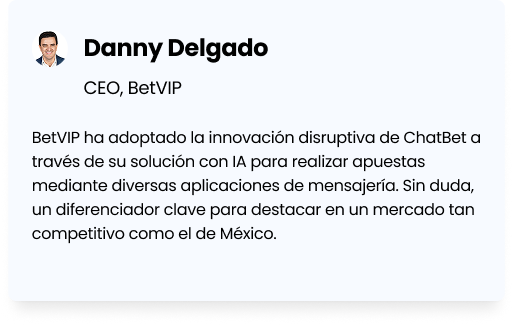
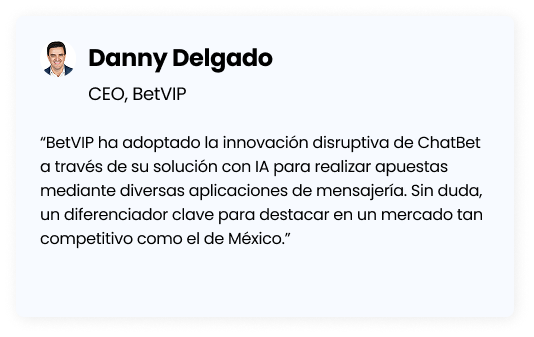
Modificaciones Finales

Changed region(s): [[0.0624, 0.4, 0.9357, 0.7385], [0.0624, 0.0923, 0.5302, 0.2462], [0.1559, 0.2462, 0.3743, 0.3077]]

diff --git a/src/app/Chat-Bet/pages/main-page/main-page.component.scss b/src/app/Chat-Bet/pages/main-page/main-page.component.scss
@@ -98,7 +98,7 @@ align-items: center;
             /* width: 100%; */
             display: flex;
             flex-direction: column;
-            /* align-items: center; */
+            align-items: center;
             margin-left: 50%; 
             transform: translateX(-10%); 
             @media (max-width: 900px) {
@@ -114,23 +114,7 @@ align-items: center;
                margin-bottom: 4rem;
             }
         }
-        .aaa{
-            font-family: "Poppins-Bold", sans-serif;
-            text-align: center;
-            display: inline-flex;
-            justify-content: start;
-            border: solid 1px;
-            border-color: #9595ff;
-            border-radius: 50px;
-            padding: 0.5rem 3rem;
-            color: #5554F3;
-            margin: 0 auto; 
-            @media (min-width: 901px) {
-                margin: 0;
-                width: 12%;
-                
-            }
-        }
+
           }
         }
     }

diff --git a/src/app/Chat-Bet/pages/main-page/main-page.component.html b/src/app/Chat-Bet/pages/main-page/main-page.component.html
@@ -649,7 +649,7 @@
  -->  
  <div class="informationcarrusel">
   <div class="content-wrapper">
-    <span class="aaa" >{{ 'carousel.title' | translate }}</span>
+    <span class="TitleTag" >{{ 'carousel.title' | translate }}</span>
      <h1>{{ 'carousel.description' | translate }}</h1>
   </div>
    <app-carousel-slider *ngIf="showCarousel" [gallery]="gallerySlider"></app-carousel-slider>
